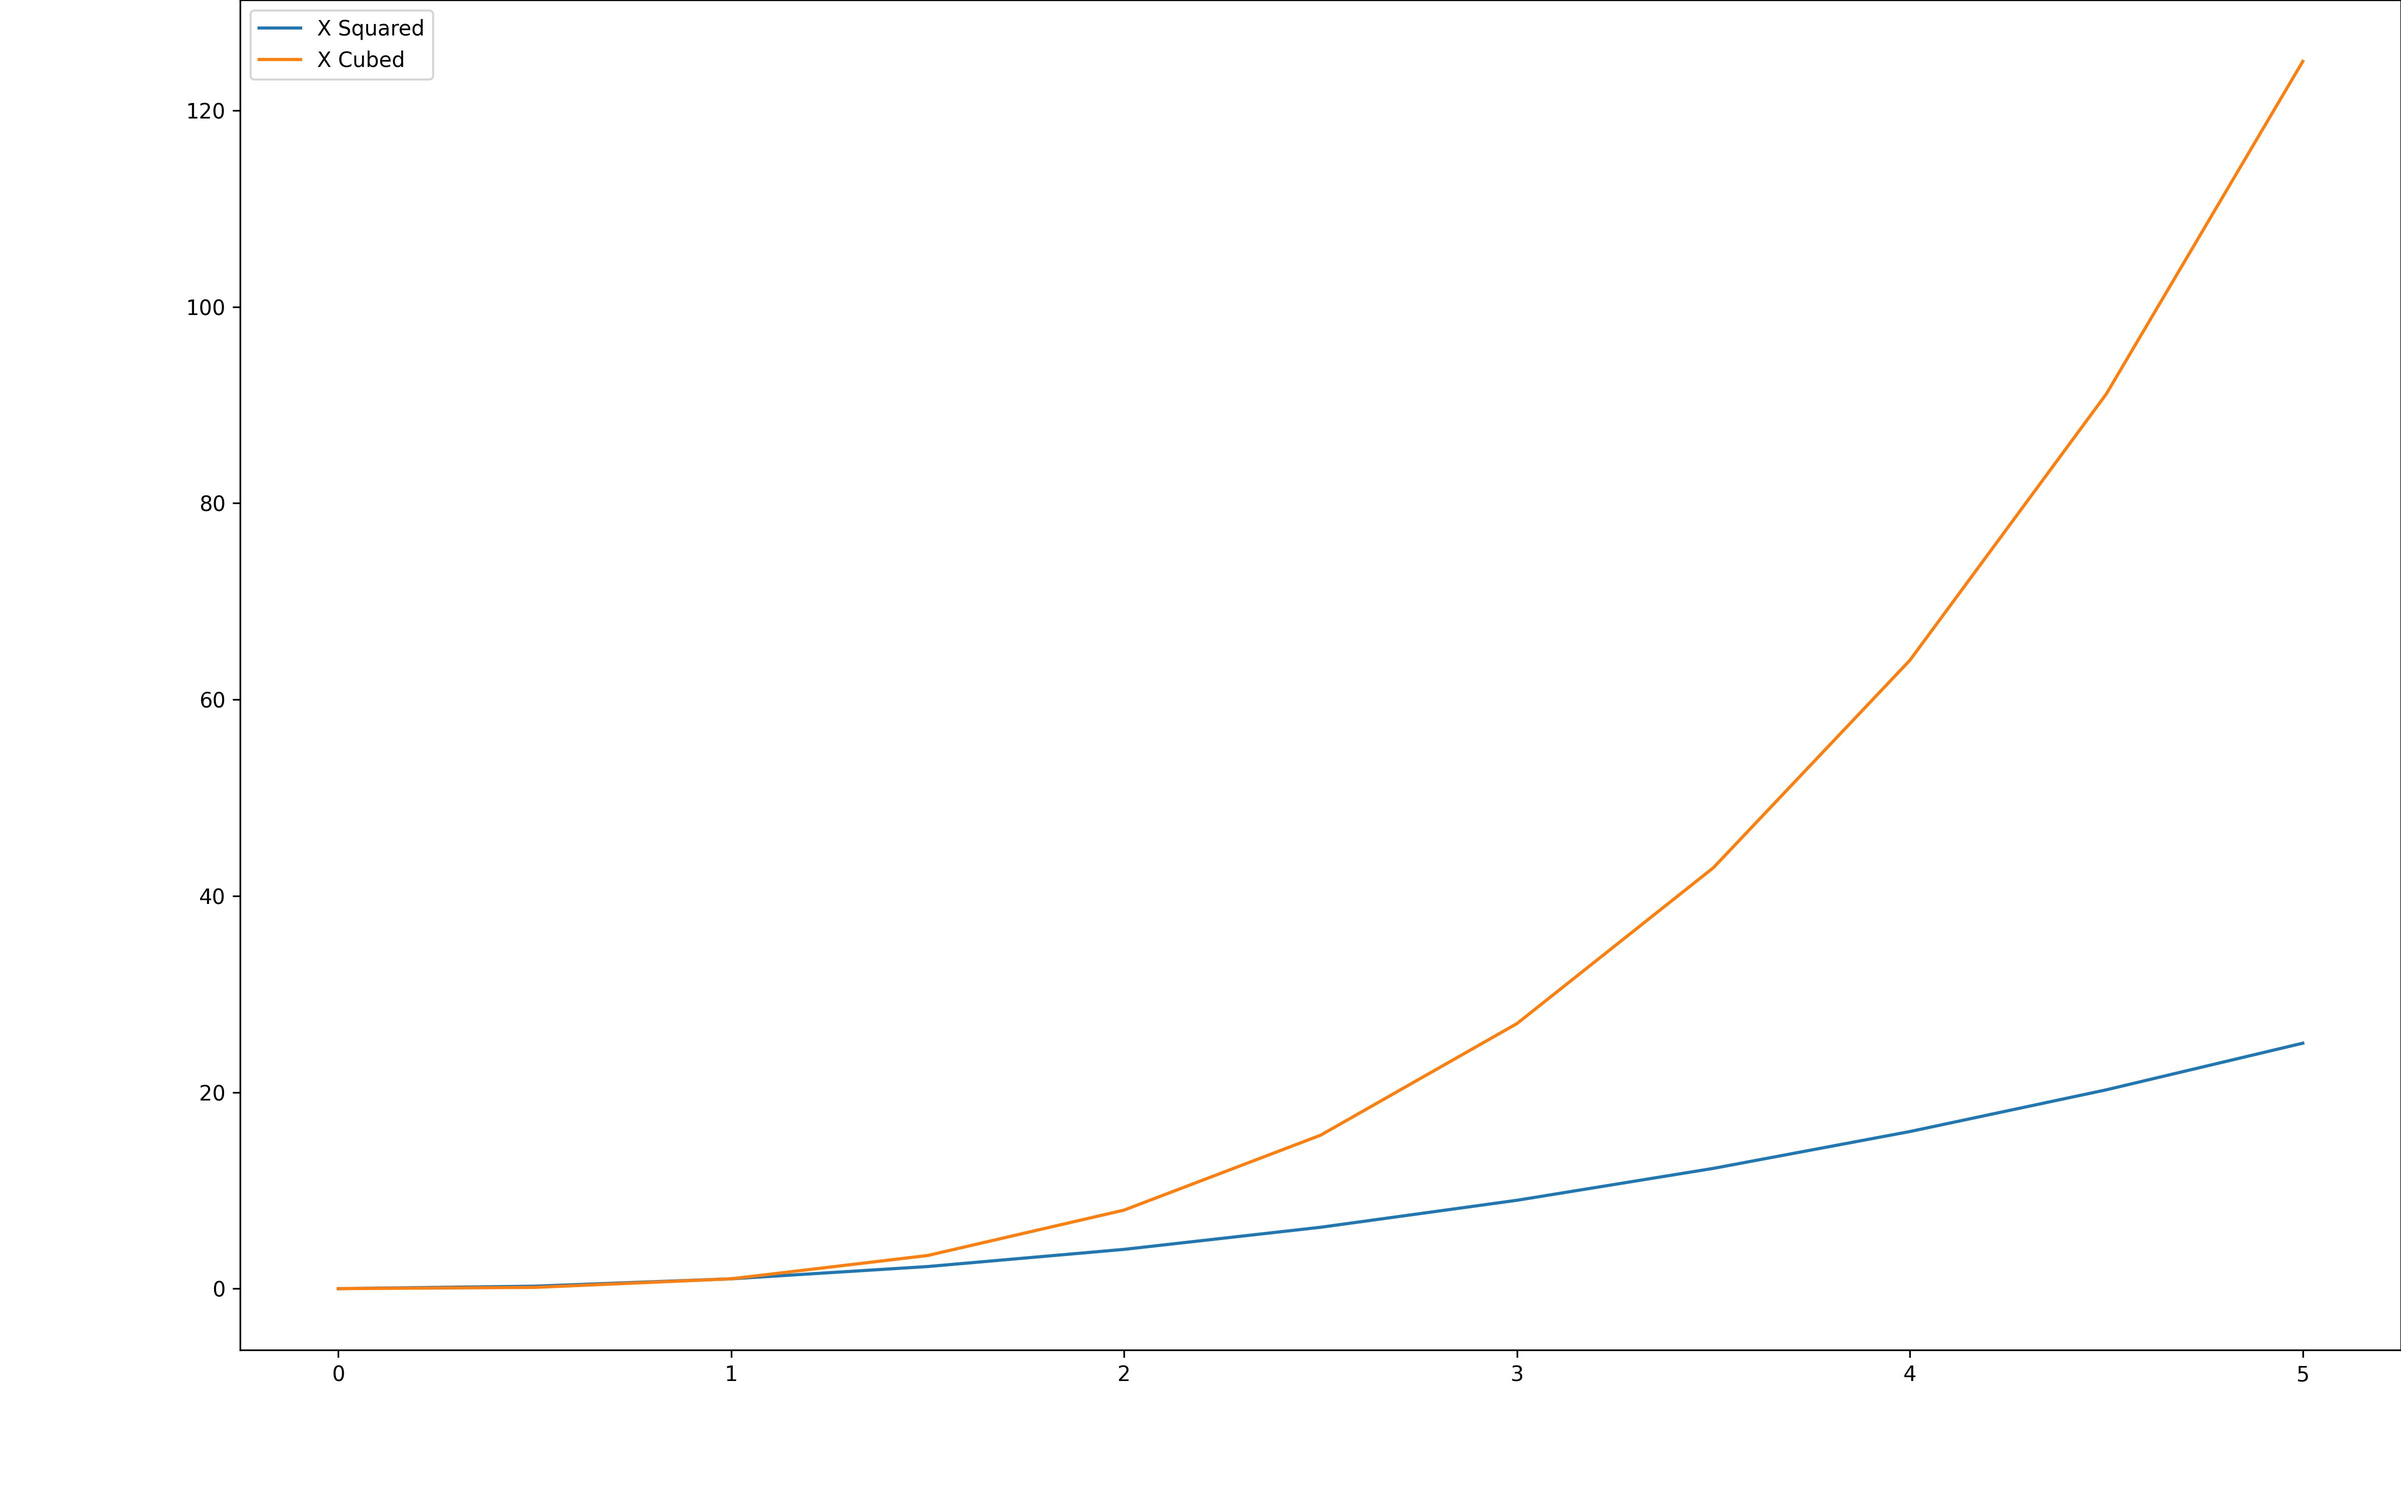
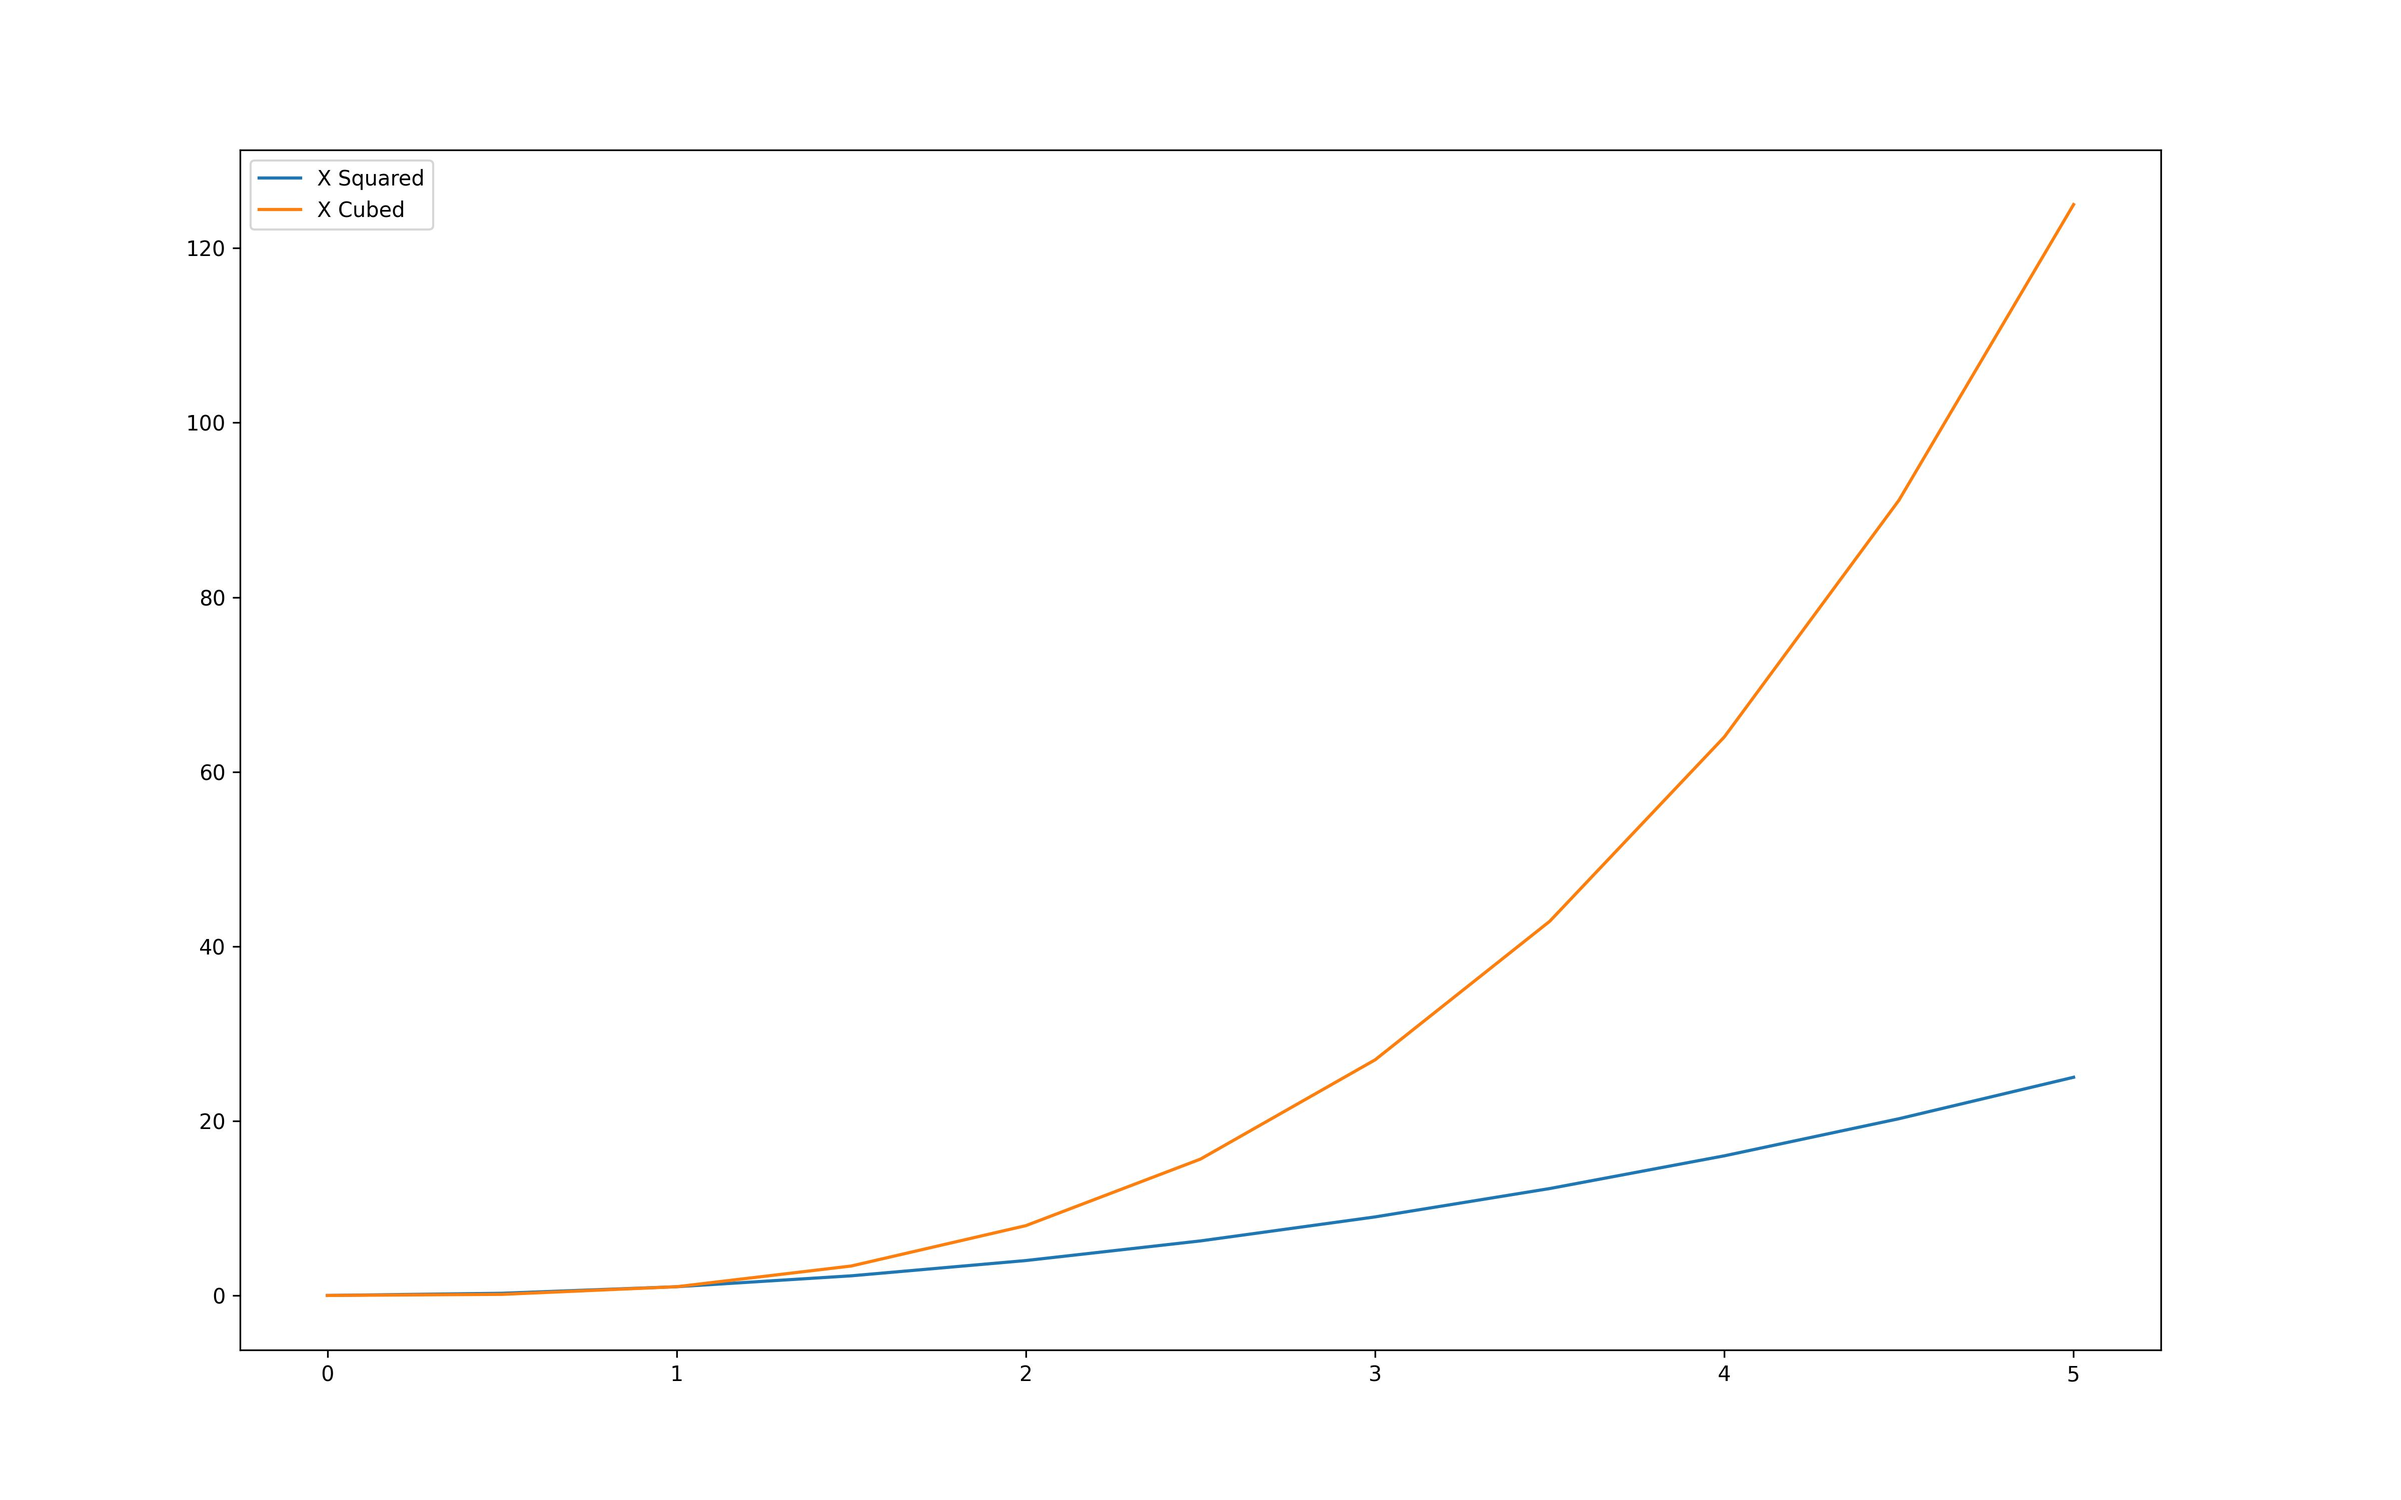
Add Matplotlib Notes 3

diff --git a/Python_for_Data_Science_and_Machine_Learning/Notes/Data_Visualization_-_Matplotlib/main.py b/Python_for_Data_Science_and_Machine_Learning/Notes/Data_Visualization_-_Matplotlib/main.py
@@ -111,7 +111,7 @@ if __name__ == '__main__':
     # Legends
     fig = plt.figure(figsize=(16, 10), dpi=300)
 
-    ax = fig.add_axes([0.1, 0.1, 0.9, 0.9])
+    ax = fig.add_axes([0.1, 0.1, 0.8, 0.8])
 
     # Add legends for each plot
     ax.plot(x, x ** 2, label='X Squared')
@@ -120,10 +120,92 @@ if __name__ == '__main__':
     # Display the legends
     ax.legend(loc='best')
 
-    plt.tight_layout()
-
     plt.show()
 
     fig.savefig(
         os.path.join(os.getcwd(), 'output', 'my_figure_with_legend.jpg')
     )
+
+    # Plot Appearance
+
+    # Color
+    fig = plt.figure(figsize=(16, 10), dpi=300)
+
+    ax = fig.add_axes([0.1, 0.1, 0.8, 0.8])
+
+    # We can specify the line color by simple color names like 'green' and
+    # 'blue' or by RGB HEX Code #FF8C00
+    ax.plot(x, y, color='#FF8C00')
+
+    plt.show()
+
+    # Line Width
+    fig = plt.figure(figsize=(16, 10), dpi=300)
+
+    ax = fig.add_axes([0.1, 0.1, 0.8, 0.8])
+
+    # We can also specify the line width
+    ax.plot(x, y, color='purple', linewidth=2)
+
+    plt.show()
+
+    # Visibility
+    fig = plt.figure(figsize=(16, 10), dpi=300)
+
+    ax = fig.add_axes([0.1, 0.1, 0.8, 0.8])
+
+    # We can also specify the Line Width
+    ax.plot(x, y, color='purple', linewidth=3, alpha=0.5)
+
+    plt.show()
+
+    # Line Style
+    fig = plt.figure(figsize=(16, 10), dpi=300)
+
+    ax = fig.add_axes([0.1, 0.1, 0.8, 0.8])
+
+    # We can also specify the Line Style
+    ax.plot(x, y, color='purple', linewidth=3, linestyle='-.')
+
+    plt.show()
+
+    # Markers
+    fig = plt.figure(figsize=(16, 10), dpi=300)
+
+    ax = fig.add_axes([0.1, 0.1, 0.8, 0.8])
+
+    # We can also add markers to our plot
+    ax.plot(
+        x,
+        y,
+        color='purple',
+        linewidth=2,
+        linestyle='-',
+        marker='o',
+        markersize=10,
+        markeredgewidth=2,
+        markerfacecolor='yellow',
+        markeredgecolor='green'
+    )
+
+    plt.show()
+
+    # Axis appearance
+
+    fig = plt.figure(figsize=(16, 10))
+
+    ax = fig.add_axes([0.1, 0.1, 0.8, 0.8])
+
+    ax.plot(
+        x,
+        y,
+        color='purple',
+        linewidth=2,
+        linestyle='--',
+    )
+
+    # We can set limitations for our axis ranges
+    ax.set_xlim([0, 1])
+    ax.set_ylim([0, 2])
+
+    plt.show()
